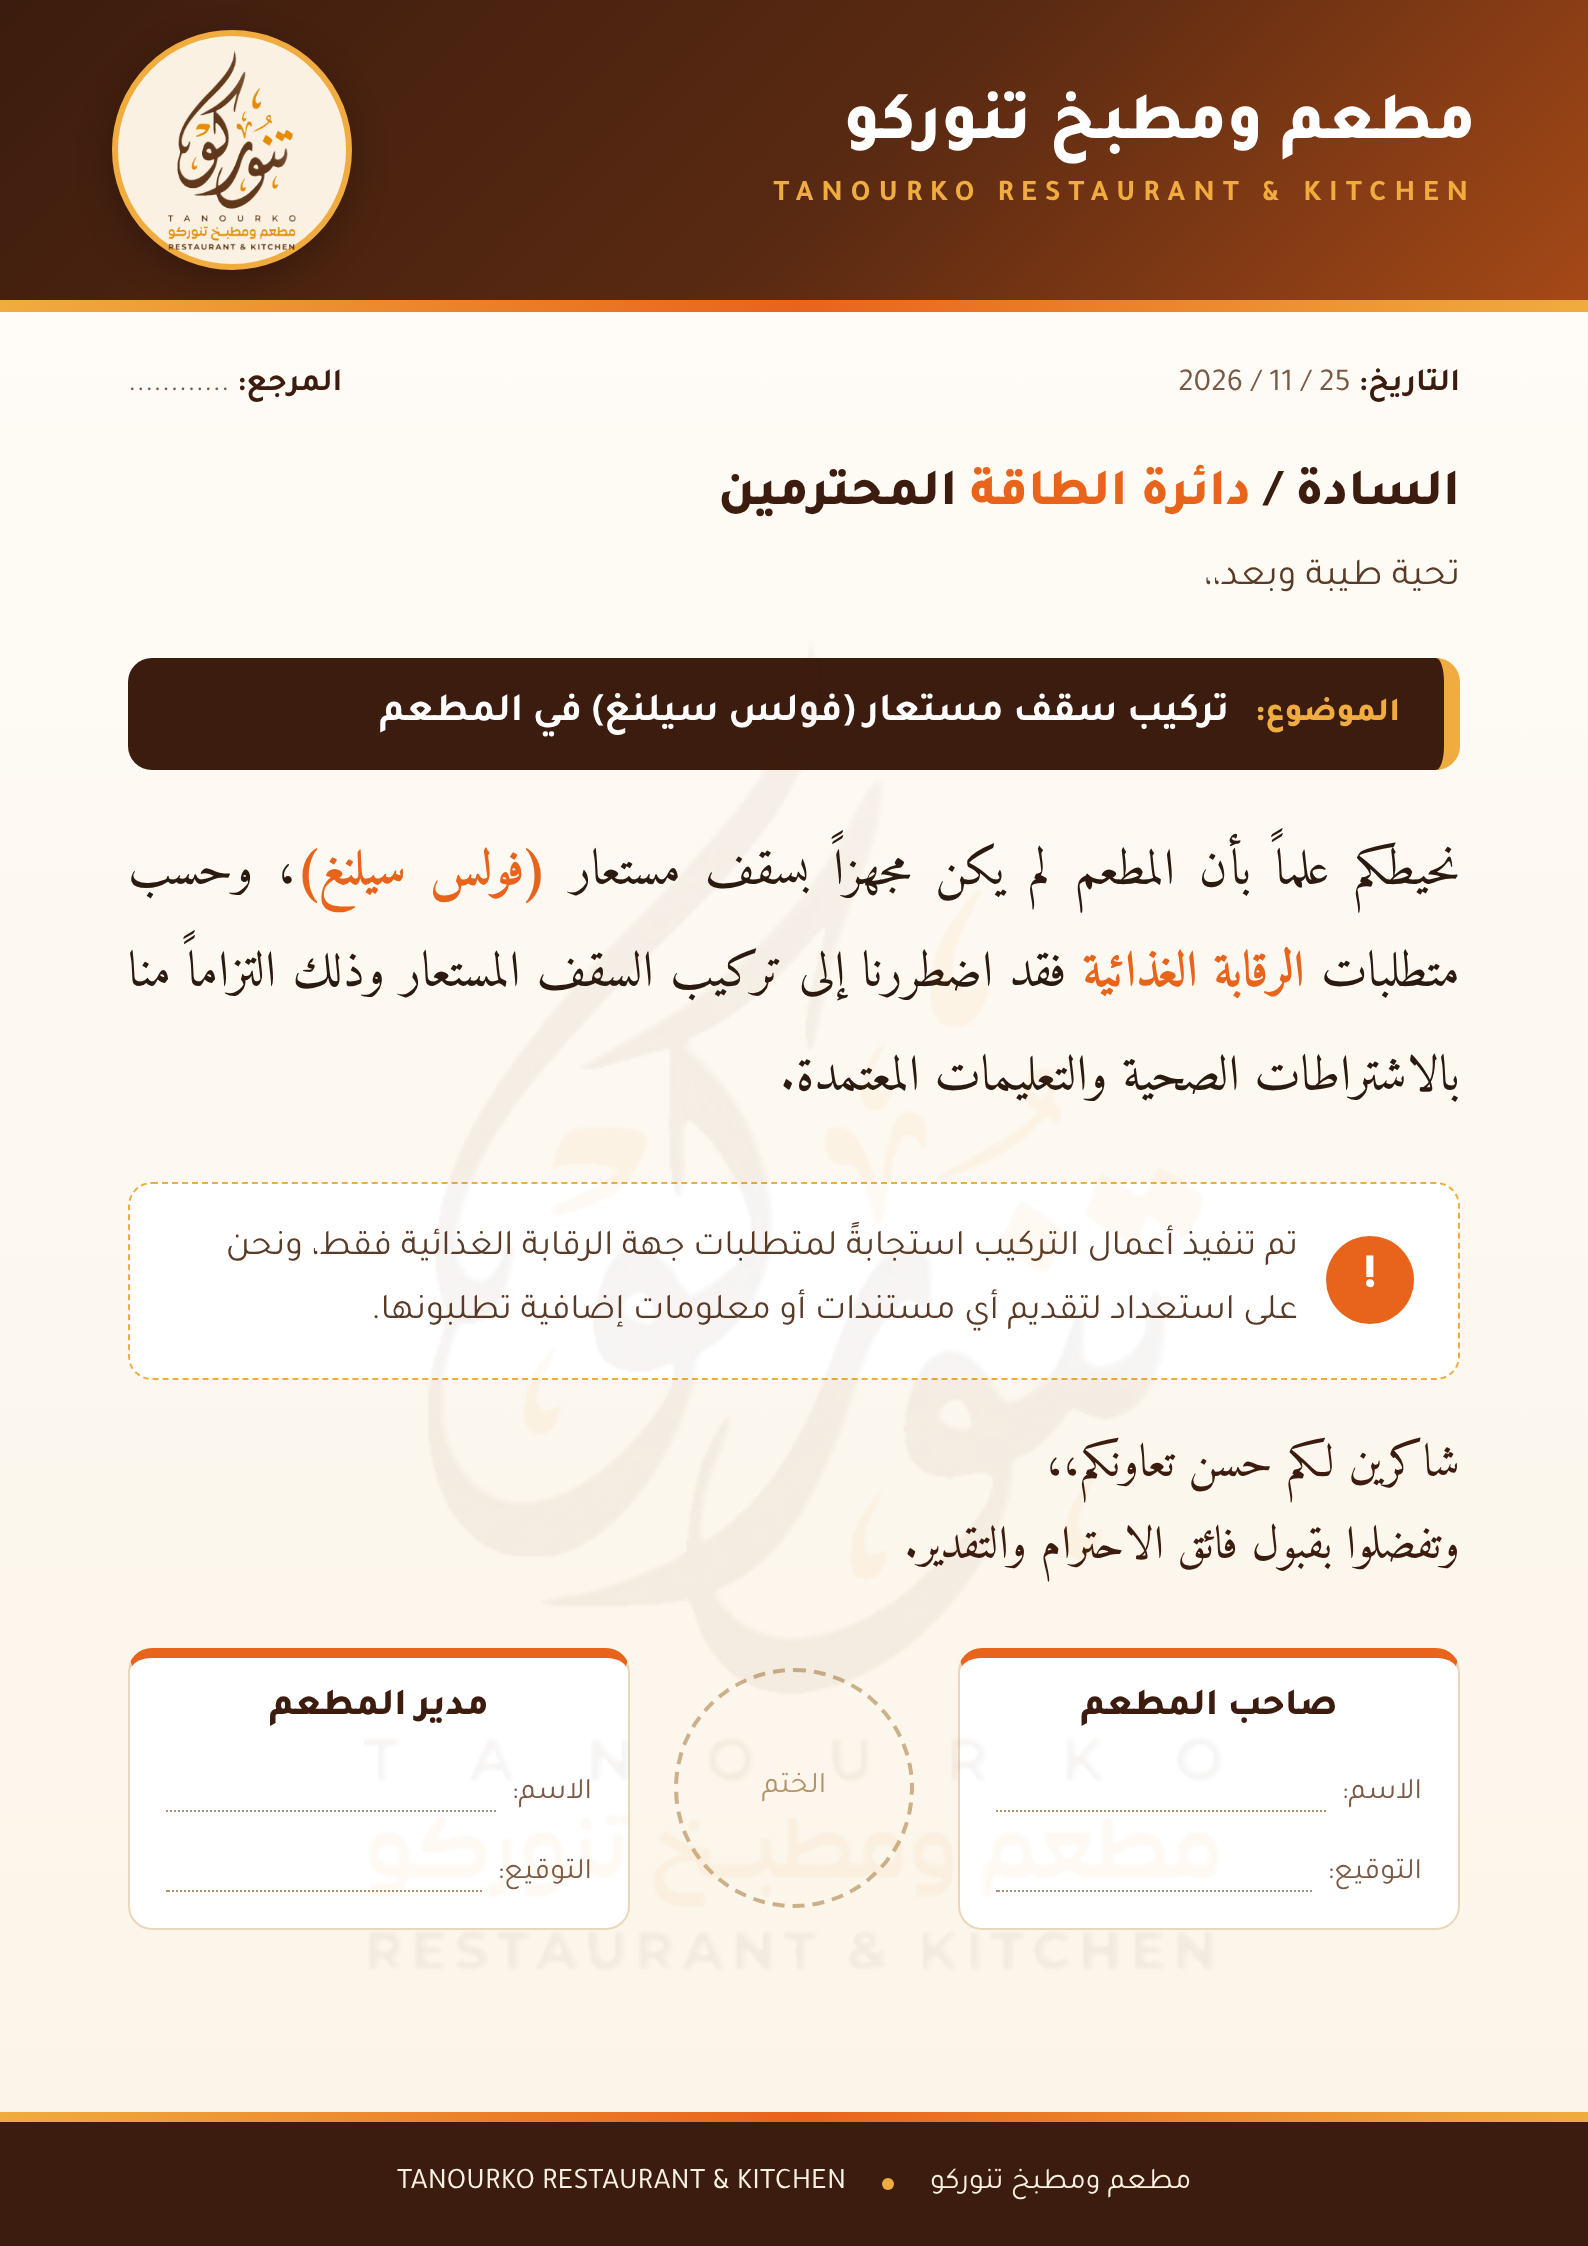
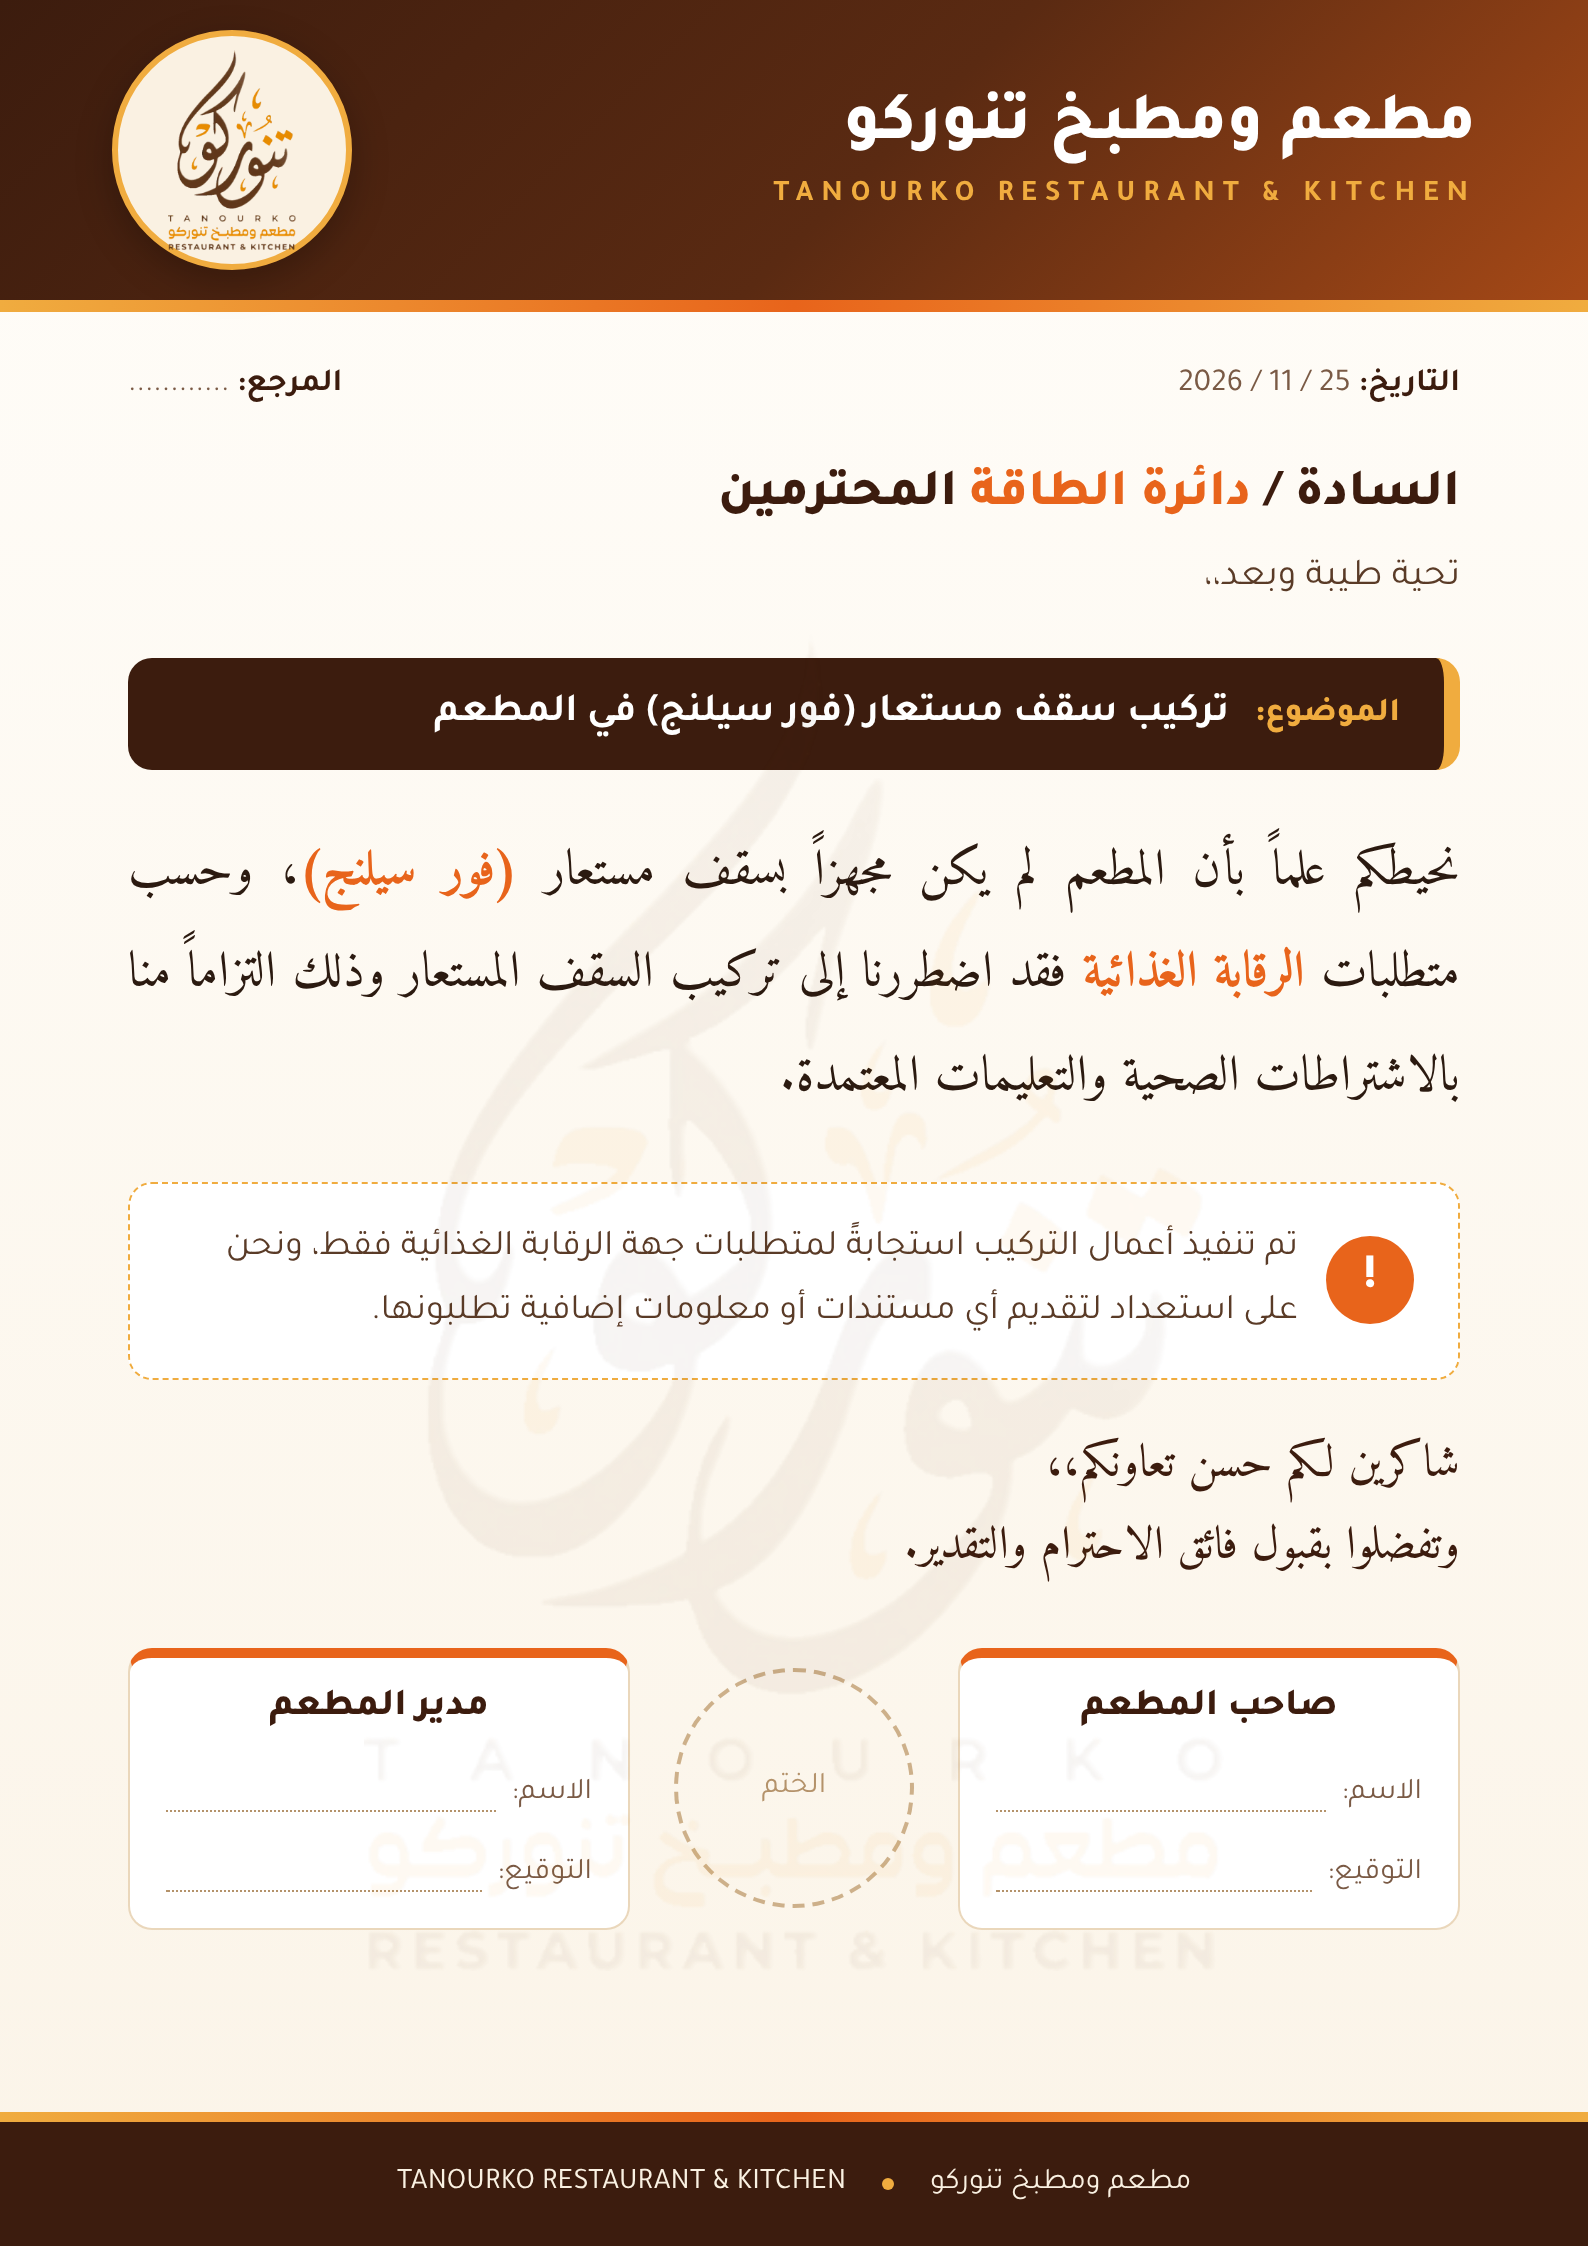
Use فور سيلنج spelling in letter
Claude-Session: https://claude.ai/code/session_01JZNZBjVQqAJ3iT6VL9HTQ6

Changed region(s): [[0.2777, 0.374, 0.8331, 0.4052], [0.2469, 0.3117, 0.4937, 0.3428], [0.1851, 0.374, 0.2469, 0.4052]]

diff --git a/letter/letter.html b/letter/letter.html
@@ -50,8 +50,8 @@ body{width:794px;height:1123px;background:#fff;font-family:'Tajawal',sans-serif;
 <div class="body">
   <div class="to">السادة / <span>دائرة الطاقة</span> المحترمين</div>
   <div class="greet">تحية طيبة وبعد،،</div>
-  <div class="subject"><small>الموضوع:</small> تركيب سقف مستعار (فولس سيلنغ) في المطعم</div>
-  <p class="text">نحيطكم علماً بأن المطعم لم يكن مجهزاً بسقف مستعار <strong>(فولس سيلنغ)</strong>، وحسب متطلبات <strong>الرقابة الغذائية</strong> فقد اضطررنا إلى تركيب السقف المستعار وذلك التزاماً منا بالاشتراطات الصحية والتعليمات المعتمدة.</p>
+  <div class="subject"><small>الموضوع:</small> تركيب سقف مستعار (فور سيلنج) في المطعم</div>
+  <p class="text">نحيطكم علماً بأن المطعم لم يكن مجهزاً بسقف مستعار <strong>(فور سيلنج)</strong>، وحسب متطلبات <strong>الرقابة الغذائية</strong> فقد اضطررنا إلى تركيب السقف المستعار وذلك التزاماً منا بالاشتراطات الصحية والتعليمات المعتمدة.</p>
   <div class="note"><div class="ico">!</div><div>تم تنفيذ أعمال التركيب استجابةً لمتطلبات جهة الرقابة الغذائية فقط، ونحن على استعداد لتقديم أي مستندات أو معلومات إضافية تطلبونها.</div></div>
   <p class="close">شاكرين لكم حسن تعاونكم،،<br>وتفضلوا بقبول فائق الاحترام والتقدير.</p>
 </div>
